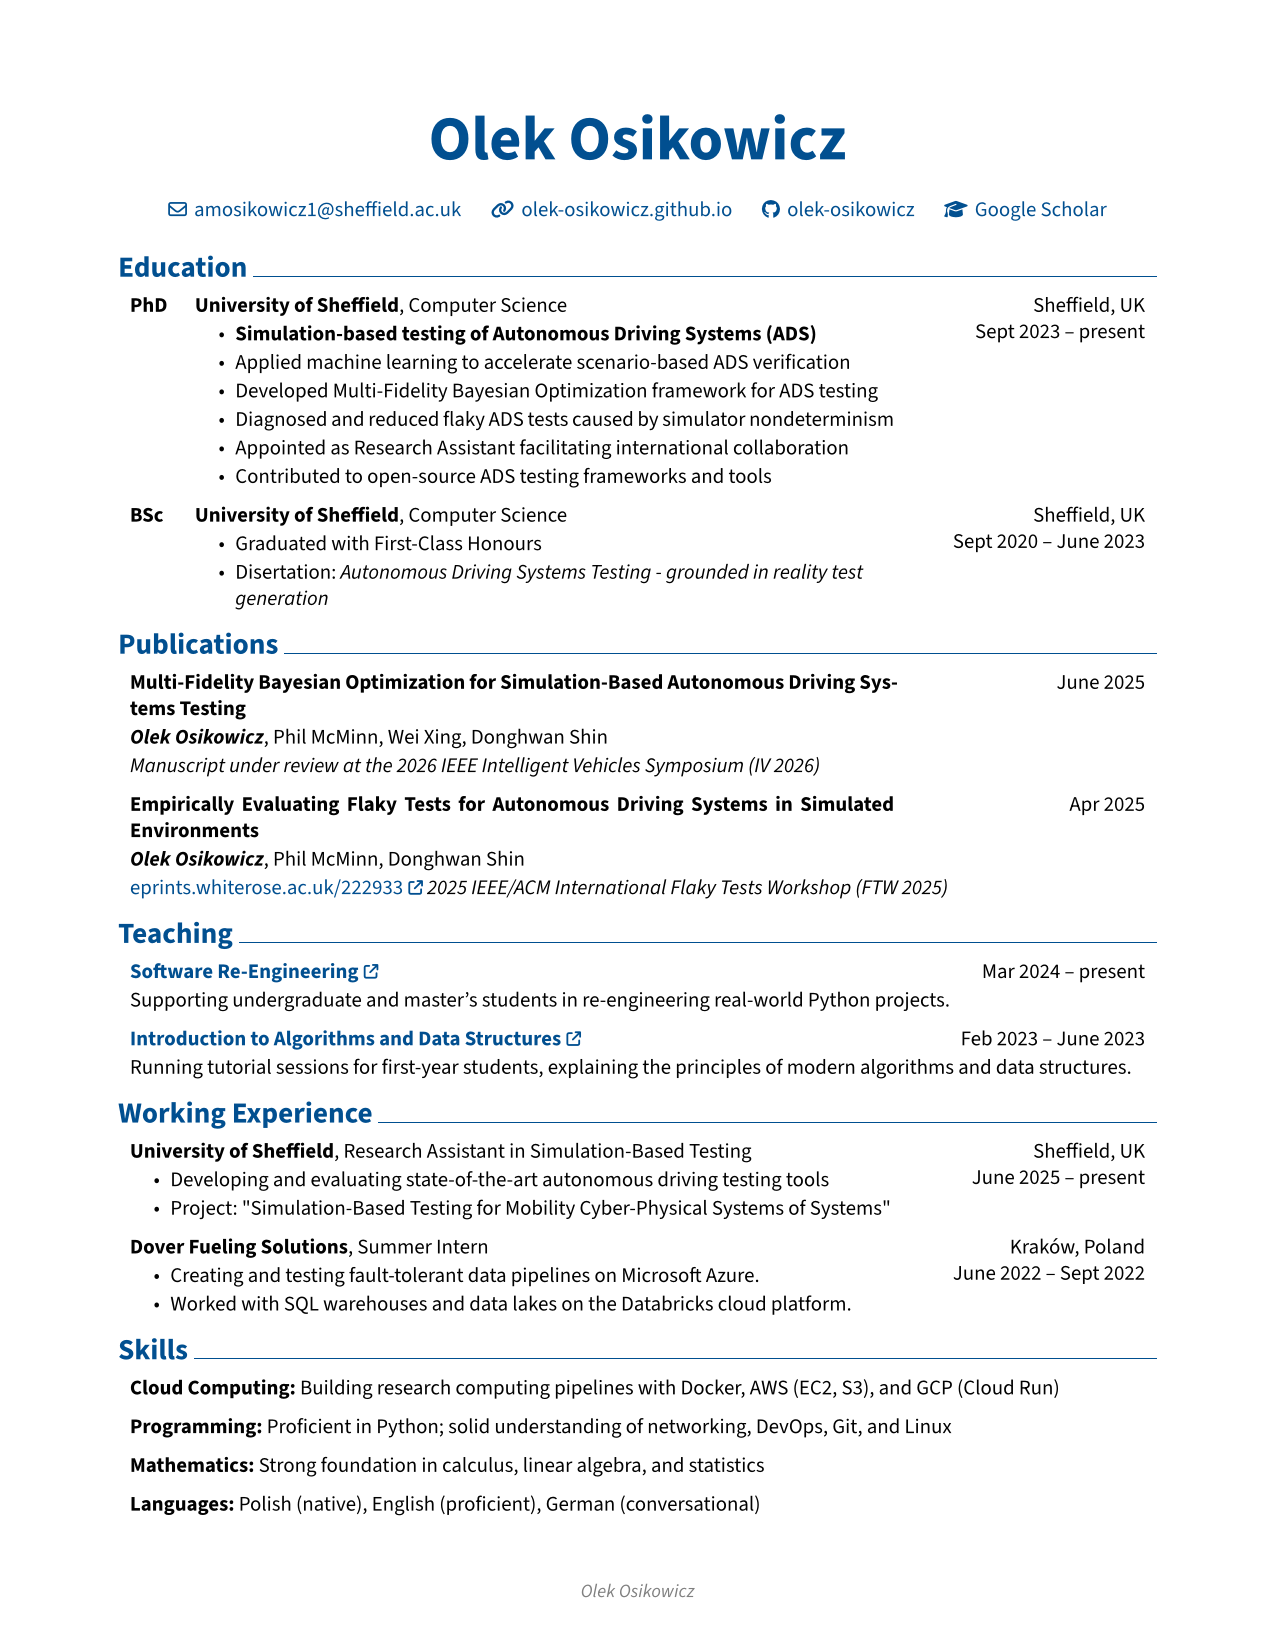
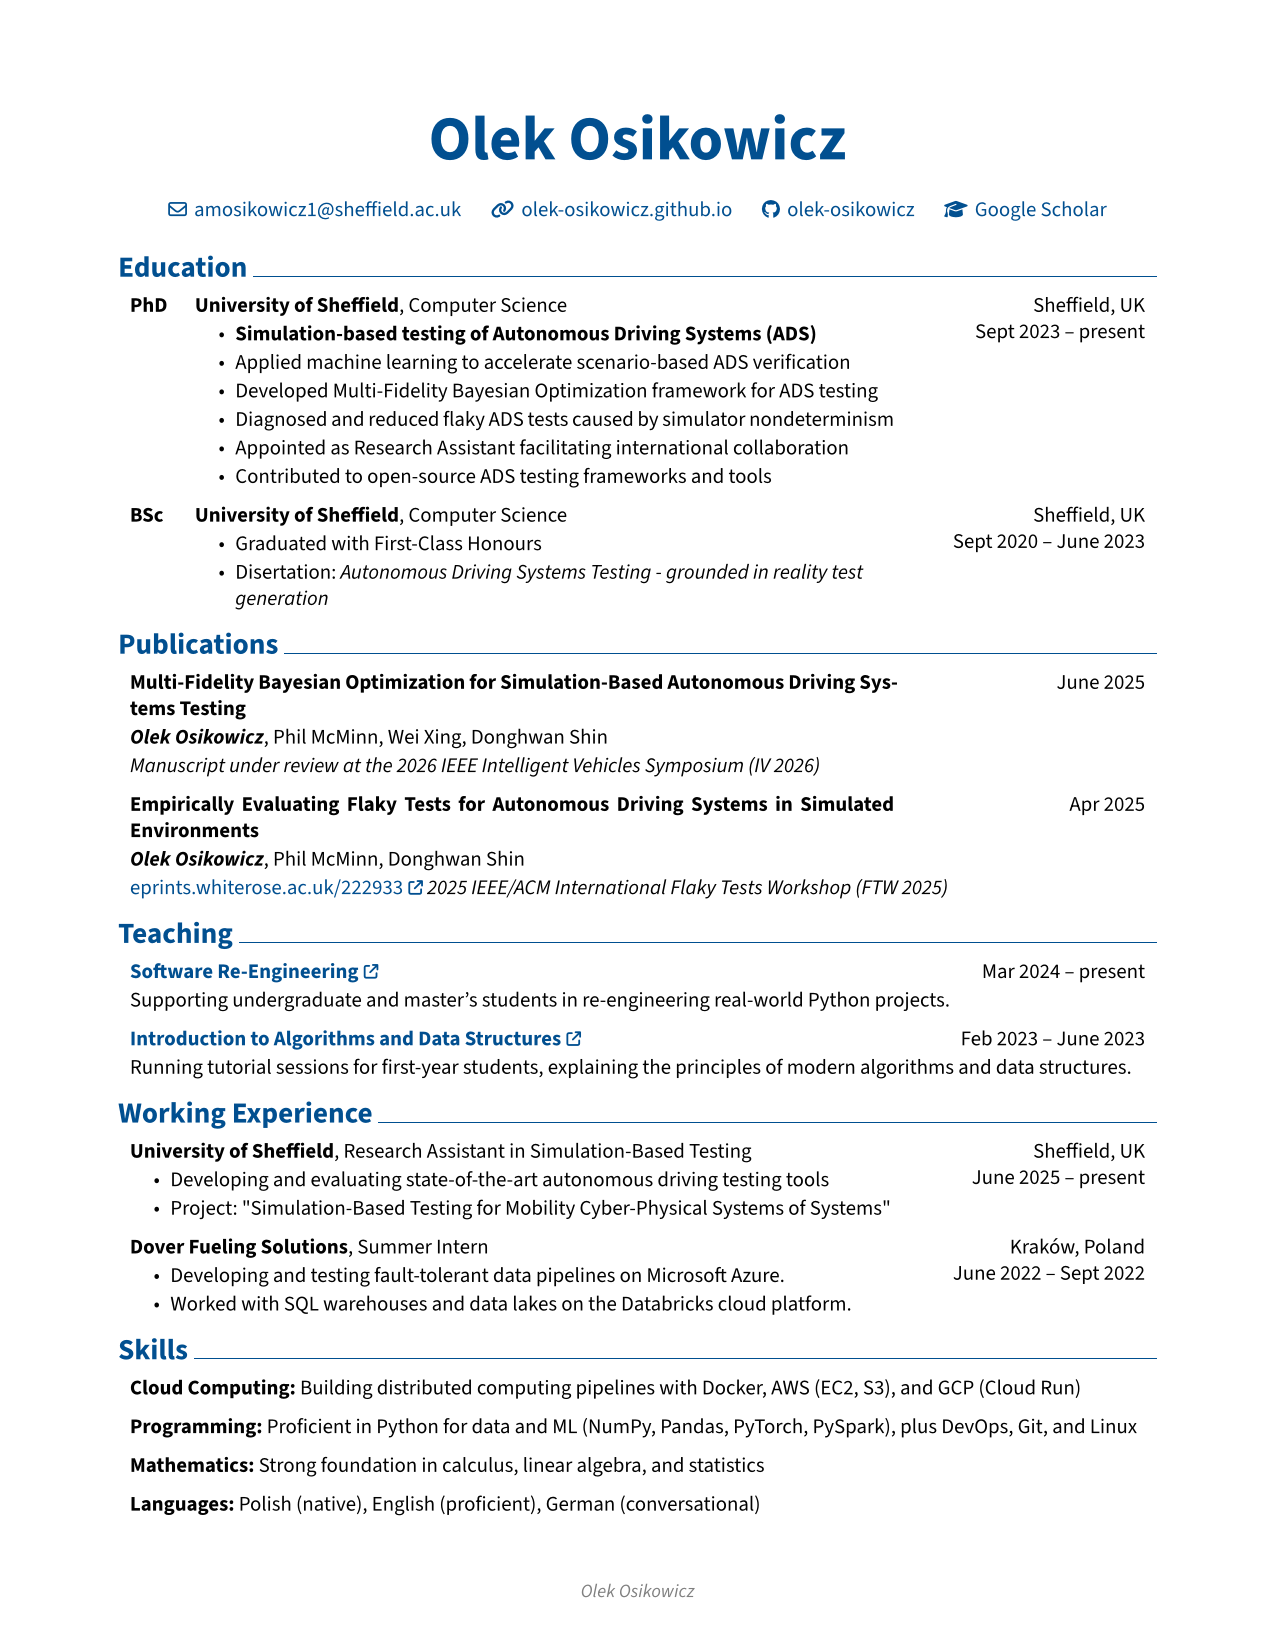
Tweak the CV

diff --git a/rendercv_output/Olek_Osikowicz_CV.html b/rendercv_output/Olek_Osikowicz_CV.html
@@ -99,13 +99,13 @@
         <ul>
         <li>June 2022 – Sept 2022</li>
         <li>Kraków, Poland</li>
-        <li>Creating and testing fault-tolerant data pipelines on Microsoft Azure.</li>
+        <li>Developing and testing fault-tolerant data pipelines on Microsoft Azure.</li>
         <li>Worked with SQL warehouses and data lakes on the Databricks cloud platform.</li>
         </ul>
         <h1>Skills</h1>
         <ul>
-        <li>Cloud Computing: Building research computing pipelines with Docker, AWS (EC2, S3), and GCP (Cloud Run).</li>
-        <li>Programming: Proficient in Python; solid understanding of networking, DevOps, Git, and Linux.</li>
+        <li>Cloud Computing: Building distributed computing pipelines with Docker, AWS (EC2, S3), and GCP (Cloud Run).</li>
+        <li>Programming: Proficient in Python for data and ML (NumPy, Pandas, PyTorch, PySpark), plus DevOps, Git, and Linux.</li>
         <li>Mathematics: Strong foundation in calculus, linear algebra, and statistics.</li>
         <li>Languages: Polish (native), English (proficient), German (conversational)</li>
         </ul>

diff --git a/rendercv_output/Olek_Osikowicz_CV.md b/rendercv_output/Olek_Osikowicz_CV.md
@@ -61,12 +61,12 @@
 
 - June 2022 – Sept 2022
 - Kraków, Poland
-- Creating and testing fault-tolerant data pipelines on Microsoft Azure.
+- Developing and testing fault-tolerant data pipelines on Microsoft Azure.
 - Worked with SQL warehouses and data lakes on the Databricks cloud platform.
 
 # Skills
 
-- Cloud Computing: Building research computing pipelines with Docker, AWS (EC2, S3), and GCP (Cloud Run).
-- Programming: Proficient in Python; solid understanding of networking, DevOps, Git, and Linux.
+- Cloud Computing: Building distributed computing pipelines with Docker, AWS (EC2, S3), and GCP (Cloud Run).
+- Programming: Proficient in Python for data and ML (NumPy, Pandas, PyTorch, PySpark), plus DevOps, Git, and Linux.
 - Mathematics: Strong foundation in calculus, linear algebra, and statistics.
 - Languages: Polish (native), English (proficient), German (conversational)
